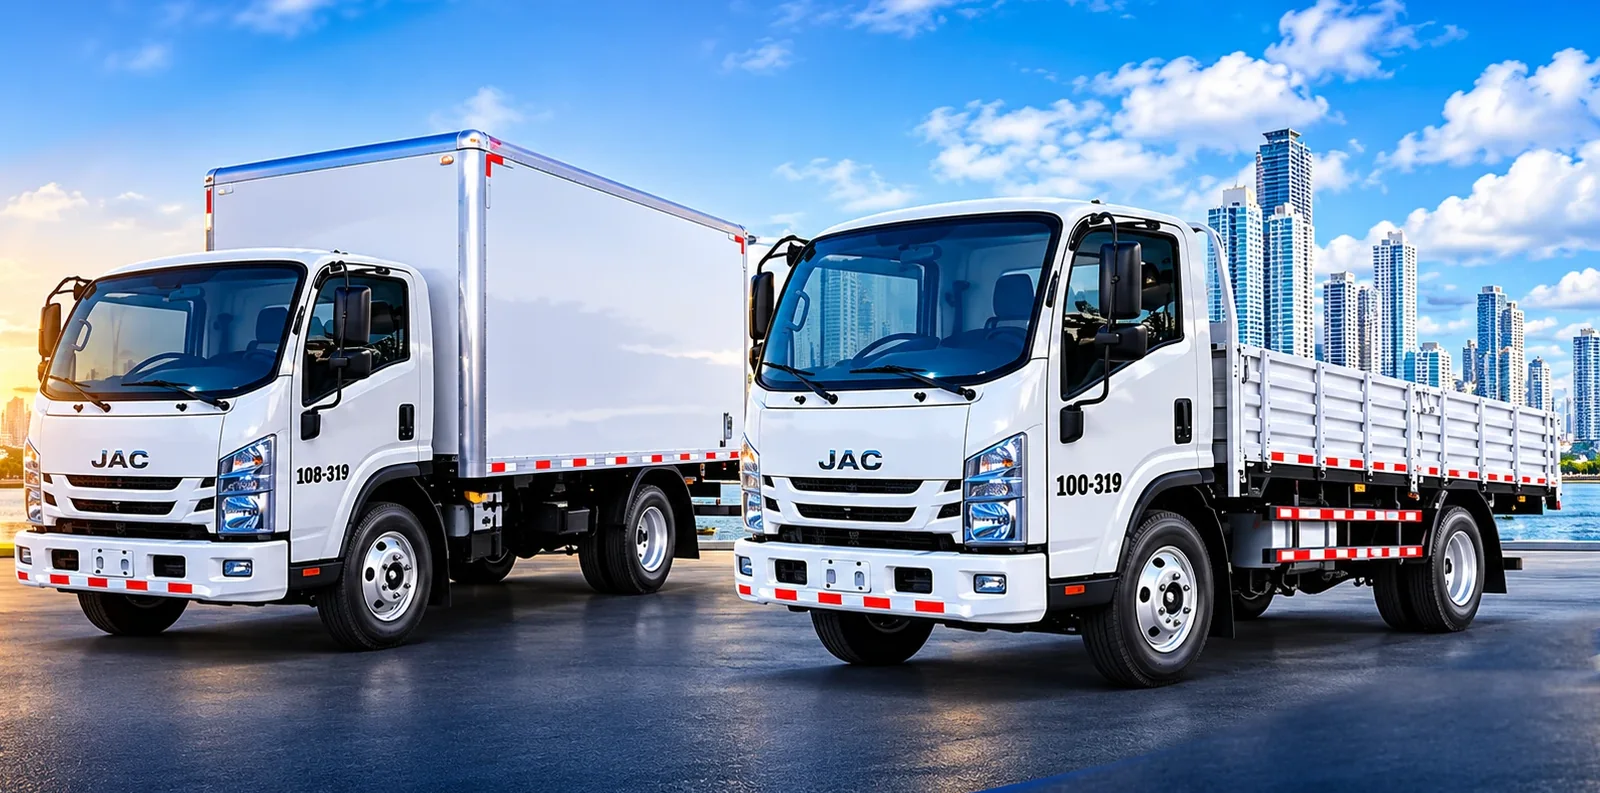
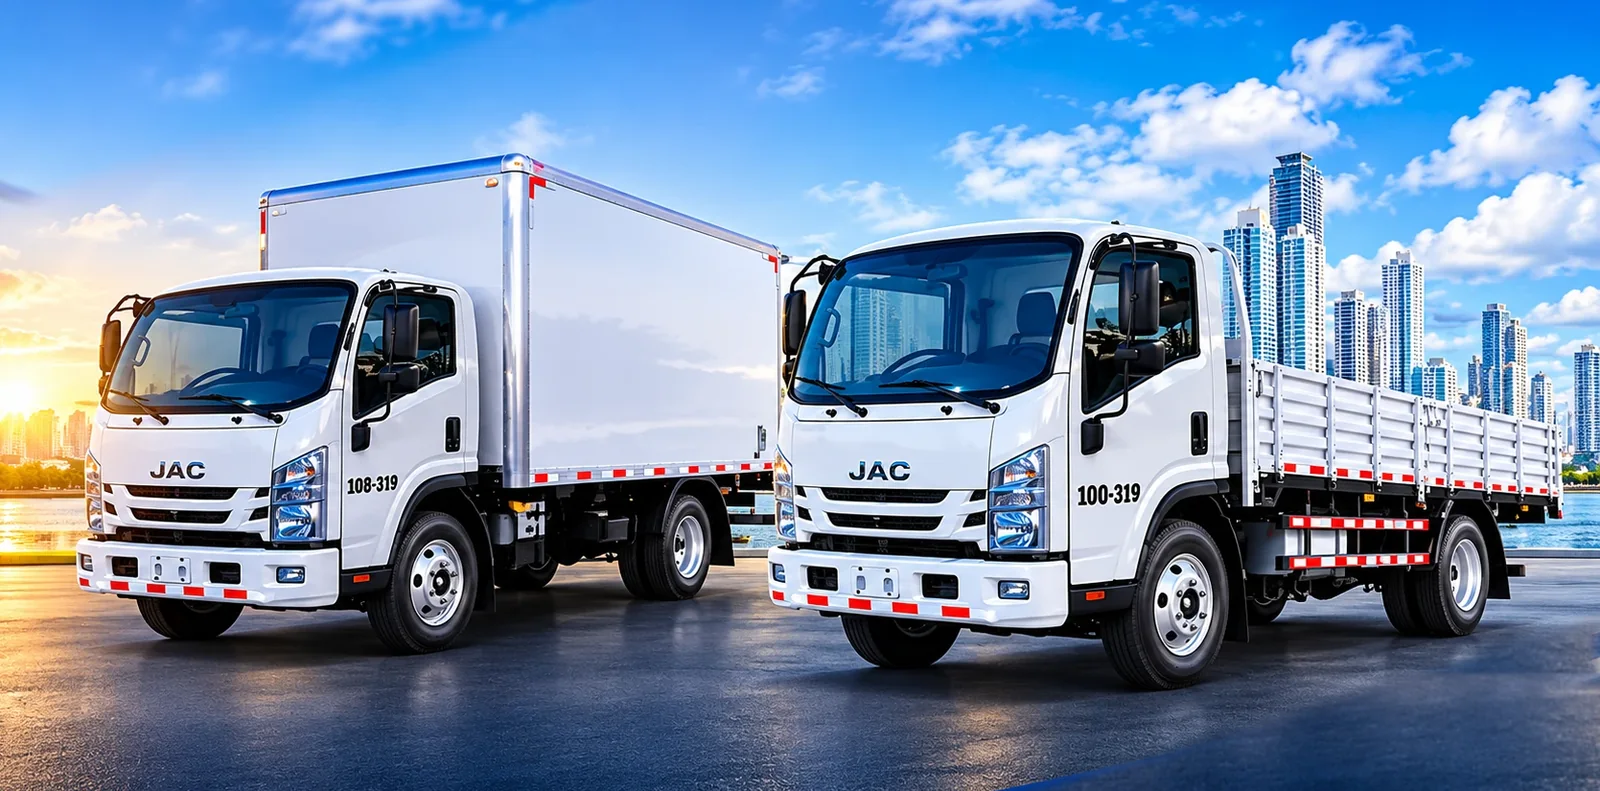
fix: los dos camiones se ven completos en la portada
La foto ya no lleva recorte inclinado ni zoom (cortaban el frente del
camión cerrado); se recortó de nuevo con más margen a la izquierda.
El bloque amarillo inclinado y la trama siguen detrás.

diff --git a/css/estilos.css b/css/estilos.css
@@ -271,17 +271,14 @@ h2 { position: relative; z-index: 0; }
   top: 14px; bottom: 124px; left: -20px; right: 20px; opacity: .35;
   background: radial-gradient(rgba(255, 255, 255, .7) 1.4px, transparent 1.6px) 0 0 / 14px 14px;
 }
+/* la foto va completa (sin recorte inclinado ni zoom) para que los camiones se vean enteros;
+   lo inclinado queda en las capas de atrás */
 .escena__foto {
-  position: relative; z-index: 1;
-  clip-path: polygon(var(--corte) 0, 100% 0, calc(100% - var(--corte)) 100%, 0 100%);
+  position: relative; z-index: 1; overflow: hidden; border-radius: 22px;
+  box-shadow: 0 30px 60px -24px rgba(0, 0, 0, .6), 0 0 0 1px rgba(255, 255, 255, .14);
   transition: transform .5s var(--curva); will-change: transform;
-  filter: drop-shadow(0 30px 40px rgba(0, 0, 0, .35));
 }
-.escena__foto img {
-  width: 100%; height: auto; display: block; transform-origin: 60% 60%;
-  animation: cine 18s ease-in-out infinite alternate;
-}
-@keyframes cine { from { transform: scale(1.03); } to { transform: scale(1.12) translateX(-2%); } }
+.escena__foto img { width: 100%; height: auto; display: block; }
 .escena__foto::after {
   content: ""; position: absolute; inset: 0; pointer-events: none;
   background: linear-gradient(180deg, transparent 60%, rgba(4, 18, 47, .45));

diff --git a/index.html b/index.html
@@ -121,7 +121,7 @@
 
           <!-- foto en marco inclinado, con puerta enrollable que sube -->
           <div class="escena__foto" data-inclinar>
-            <img src="img/flota-1600.webp" srcset="img/flota-900.webp 900w, img/flota-1600.webp 1600w" sizes="(max-width: 960px) 100vw, 680px" alt="Camión cerrado y camión de baranda de Acarreos Makena frente a la ciudad de Panamá" width="1600" height="793" fetchpriority="high">
+            <img src="img/flota-1600.webp" srcset="img/flota-900.webp 900w, img/flota-1600.webp 1600w" sizes="(max-width: 960px) 100vw, 680px" alt="Camión cerrado y camión de baranda de Acarreos Makena frente a la ciudad de Panamá" width="1600" height="791" fetchpriority="high">
             <div class="escena__brillo" aria-hidden="true"></div>
             <div class="escena__puerta" aria-hidden="true"><span class="escena__manija"></span></div>
           </div>
